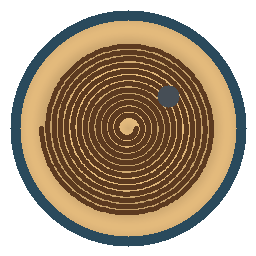
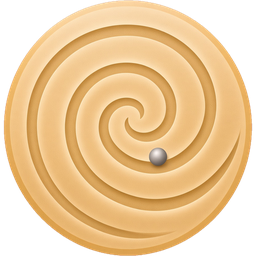
Add sand-table brand art and credit Drifted.
Ship the Home Assistant brand images and state that this integration was converted from Josh Lannin's Drifted project using Grok Bot.

diff --git a/custom_components/homedics_drift/protocol.py b/custom_components/homedics_drift/protocol.py
@@ -1,9 +1,9 @@
 """Drift sand-table packet codec.
 
-Framing, commands, and table messages follow the public Drift protocol
-(https://github.com/joshlannin/drifted, MIT). This module is an independent
-Python implementation of that specification. It does not send firmware-update
-commands (0x15) or the reserved controller reset (0x14/12).
+Josh Lannin's Drifted project (https://github.com/joshlannin/drifted, MIT,
+copyright Altimix LLC) reverse-engineered this protocol. This Home Assistant
+integration was converted from Drifted using Grok Bot. It does not send
+firmware-update commands (0x15) or the reserved controller reset (0x14/12).
 
 Playlist packets (table command 0x30, actions 1..4) are the playlist list
 the table sends during the session dump on every connection. Host command

diff --git a/tests/test_protocol.py b/tests/test_protocol.py
@@ -1,8 +1,9 @@
 """Packet encode/decode tests against Drifted's published vectors.
 
-The fixture is ``spec/vectors/protocol.json`` from
-https://github.com/joshlannin/drifted (MIT). Drifted documents the bytes;
-this suite checks an independent Python codec against them.
+The fixture is ``spec/vectors/protocol.json`` from Josh Lannin's Drifted
+project (https://github.com/joshlannin/drifted, MIT). Drifted
+reverse-engineered the bytes. This Home Assistant integration was converted
+from Drifted using Grok Bot.
 """
 
 from __future__ import annotations

diff --git a/custom_components/homedics_drift/__init__.py b/custom_components/homedics_drift/__init__.py
@@ -1,4 +1,10 @@
-"""The HoMedics Drift integration."""
+"""Home Assistant integration for HoMedics Drift sand tables.
+
+Converted from Josh Lannin's Drifted project
+(https://github.com/joshlannin/drifted) using Grok Bot. Drifted
+reverse-engineered the Bluetooth protocol. The GitHub account that posted
+this repository is not the author.
+"""
 
 from __future__ import annotations
 

diff --git a/README.md b/README.md
@@ -1,10 +1,18 @@
 # HoMedics Drift
 
+![Sand table icon](custom_components/homedics_drift/brand/icon.png)
+
 Home Assistant custom integration for the Bluetooth HoMedics Drift sand tables. It talks to the table through Home Assistant's Bluetooth integration, so a USB adapter or an ESPHome Bluetooth proxy both work. No table address is hardcoded.
 
 **This project is unofficial and is not affiliated with, endorsed by, or supported by HoMedics.** It drives a motorized sand table over an undocumented Bluetooth protocol. Use it at your own risk. A bad or interrupted session can leave a drawing unfinished; it should not damage the table, but that is not a promise.
 
-The protocol, handshake, and the traps below come from the open-source [Drifted](https://github.com/joshlannin/drifted) project by Josh Lannin (MIT). Drifted tested a generation-1 16" table and published the byte format, failure modes, and the vectors in `spec/vectors/protocol.json`. This integration is an independent Python client of that specification. The packet tests check those published vectors. Drifted's Swift sources were not copied.
+## Credit
+
+All credit for the protocol goes to Josh Lannin's [Drifted](https://github.com/joshlannin/drifted) project. Drifted reverse-engineered how these Bluetooth sand tables speak, tested a generation-1 16" table, and published the handshake, packet format, failure modes, and the vectors in `spec/vectors/protocol.json`. Drifted is MIT licensed, copyright Altimix LLC.
+
+This Home Assistant integration was converted from Drifted using Grok Bot.
+
+afcragg78 posted this repository. They are not the author of Drifted or of this conversion. `manifest.json` lists `@afcragg78` under `codeowners` only because Home Assistant requires a GitHub handle there. That entry is the person who posted the repository, not an authorship credit.
 
 ## Supported models
 
@@ -19,6 +27,21 @@ Tables do not pair. Only one Bluetooth central can be connected. While Home Assi
 The advertised name sometimes has a trailing carriage return or line feed. The integration trims that before matching. Discovery uses Home Assistant's Bluetooth matcher `local_name: KS*`.
 
 Requires Home Assistant 2026.11 or newer.
+
+## Icon
+
+The artwork is original. It is a circular sand table, a spiral in the sand, and a small ball, in warm sand tones, on a transparent background. It is not a HoMedics logo and it does not use Home Assistant's logo.
+
+Since Home Assistant 2026.3, a custom integration ships its own images in `custom_components/<domain>/brand/`. This repository includes:
+
+| File | Size |
+| --- | --- |
+| `custom_components/homedics_drift/brand/icon.png` | 256×256 |
+| `custom_components/homedics_drift/brand/icon@2x.png` | 512×512 |
+| `custom_components/homedics_drift/brand/logo.png` | 543×256 |
+| `custom_components/homedics_drift/brand/logo@2x.png` | 1085×512 |
+
+After the integration is installed, Home Assistant shows that icon on the Integrations page automatically. Local images take priority over the brands CDN. Nothing has to be added to the [home-assistant/brands](https://github.com/home-assistant/brands) repository, so this repo does not include a `brands-submission/` folder. The Marketplace can also pick the images up from a GitHub release once the repository is in the catalog.
 
 ## Install
 
@@ -92,6 +115,4 @@ Tests live in `tests/` and do not need Home Assistant or a table. `tests/fixture
 
 ## License
 
-MIT. See [LICENSE](LICENSE).
-
-Protocol documentation and test vectors: [Drifted](https://github.com/joshlannin/drifted), MIT, copyright Altimix LLC.
+MIT, matching Drifted's license. See [LICENSE](LICENSE). The copyright notice is Altimix LLC, the copyright holder of Drifted. This integration was converted from that project using Grok Bot. The person who posted this repository is not the author.
